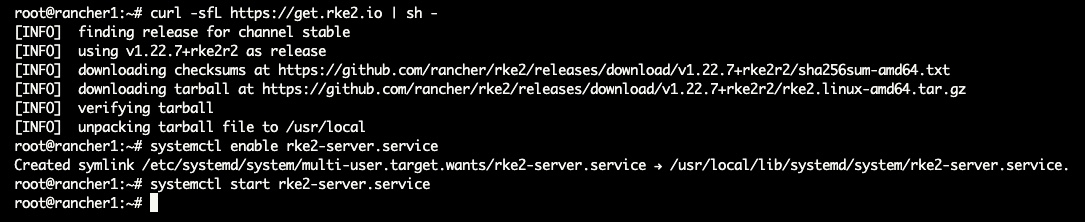
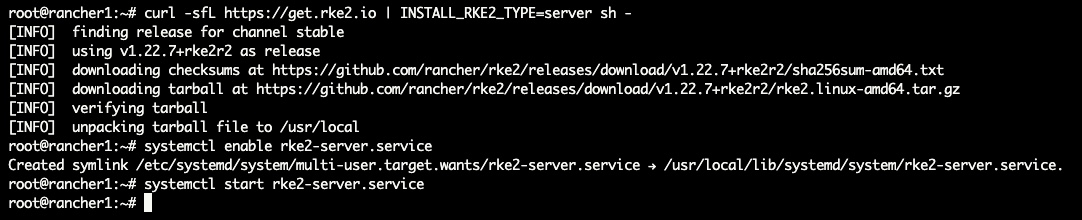
must clean and polish

Changed region(s): [[0.0, 0.0273, 1.0, 0.9545]]

diff --git a/README.md b/README.md
@@ -54,7 +54,7 @@ rancher2     68.183.150.214     8192   4   160   Ubuntu 21.10 x64
 rancher3     167.71.188.101     8192   4   160   Ubuntu 21.10 x64
 ```
 
-For Kubernetes we will need to "set" one of the nodes as the control plane. Rancher1 looks like a winner for this. First we need to `ssh` into all three nodes and make sure we have all the updates. For the record I am not a fan of software firewalls. Please feel free to reach to me to discuss. :D 
+For Kubernetes we will need to "set" one of the nodes as the control plane. Rancher1 looks like a winner for this. First we need to `ssh` into all three nodes and make sure we have all the updates. For the record I am not a fan of software firewalls. Please feel free to reach to me to discuss. :D
 
 **Ubuntu**:
 
@@ -101,11 +101,11 @@ Cool, lets move on to the RKE2.
 
 ### RKE2 Server Install
 
-Now that we have all the nodes up to date, let's focus on `rancher1`. While this might seem controversial, `curl | bash` does work nicely. There is one option we should set, `INSTALL_RKE2_CHANNEL`. If we look at the [Support Matrix](https://www.suse.com/suse-rancher/support-matrix/all-supported-versions/rancher-v2-6-3/) we will need to use Kubernetes `1.21.x`. Here is how we do that with the tarball version. Please be patient with the start command. It is unpacking the components and it takes a minute. Here are the [rke2 docs](https://docs.rke2.io/install/methods/) for reference.
+Now that we have all the nodes up to date, let's focus on `rancher1`. While this might seem controversial, `curl | bash` does work nicely. For more information about the Rancher versions, please refer to the  [Support Matrix](https://www.suse.com/suse-rancher/support-matrix/all-supported-versions/rancher-v2-6-3/). The install script will use the tarball install for **Ubuntu** and the RPM install for **Rocky/Centos**. Please be patient, the start command can take a minute. Here are the [rke2 docs](https://docs.rke2.io/install/methods/) and [install options](https://docs.rke2.io/install/install_options/install_options/) for reference.
 
 ```bash
 # On rancher1
-curl -sfL https://get.rke2.io | sh - 
+curl -sfL https://get.rke2.io | INSTALL_RKE2_TYPE=server sh - 
 
 # start and enable for restarts - 
 systemctl enable rke2-server.service 
